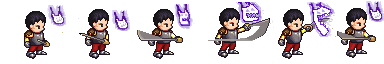
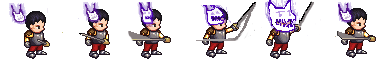
Finished polishing all sprites and created css animations

diff --git a/app/scripts/components/battle/sprites/player-sprites.jsx b/app/scripts/components/battle/sprites/player-sprites.jsx
@@ -12,8 +12,10 @@ class PlayerSprite extends React.Component{
             character = props.character,
             attackingCharacterSprite = "/images/" + character.name.toLowerCase() + "_attacking.png",
             selectedCharacterSprite = "/images/" + character.name.toLowerCase() + "_selected.png",
+            standingCharacterSprite = "/images/" + character.name.toLowerCase() + "_standing.png",
             attackingCharacter = {backgroundImage: 'url(' + attackingCharacterSprite + ')' },
             selectedCharacter = {backgroundImage: 'url(' + selectedCharacterSprite + ')'},
+            standingCharacter = {backgroundImage: 'url(' + standingCharacterSprite + ')'},
             playerString = character.player.toString();
 
         if (props.attackingCharacter == props.player) {
@@ -21,7 +23,7 @@ class PlayerSprite extends React.Component{
         } else if(props.selectedCharacter == props.player) {
             return <div style={selectedCharacter} className={`selected-character select-${playerString}`}></div>;
         } else{
-            return <img className={`standing-character player-${playerString}`} src={"/images/" + character.name.toLowerCase() + "_standing.png"}/>;
+            return <div style={standingCharacter} className={`standing-character select-${playerString}`}></div>;
         }
     }
 

diff --git a/app/scripts/components/selection-screen/selection_screen.jsx b/app/scripts/components/selection-screen/selection_screen.jsx
@@ -128,7 +128,7 @@ class SelectionScreen extends React.Component {
                         <ToBattleButton ready={false} {...this.props} />
                     }
                 </div>
-                <audio src="/music/selection-screen.mp3" autoPlay loop></audio>
+                <audio src="/music/selection-screen.mp3" loop></audio>
             </div>
         );
     }
